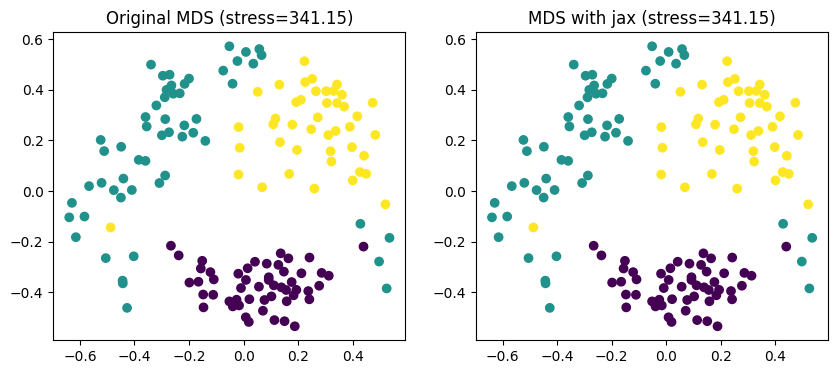
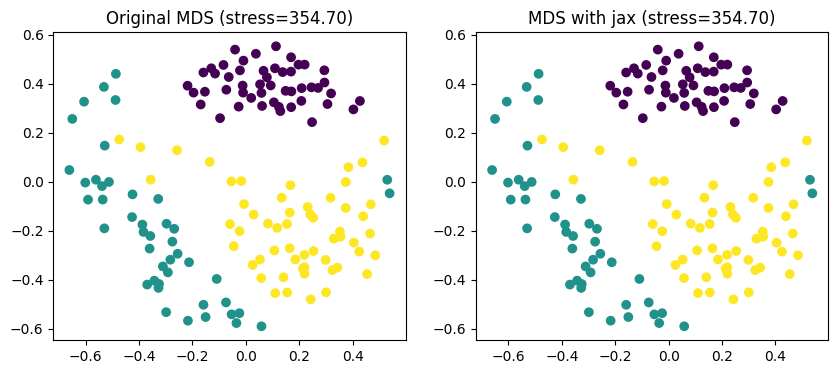
WIP debugging the viz flipping around -- see Zdebug -- when converged

diff --git a/pmds/lv_pmds.py b/pmds/lv_pmds.py
@@ -78,13 +78,13 @@ def lv_pmds(
     init_mu=None,
     hard_fix=False,
     method="LV",
-    beta=500.0,
+    beta=10.0,
     gamma_shape=1.0,
     gamma_rate=1.0,
 ):
     assert n_components in [2, 4]
 
-    # init mu and sigma square. Transform unconstrained sigma square `ss_unc` to `ss`.
+    # init `mu` and `tau`. Transform unconstrained tau `tau_unc` to  constrained`tau`.
     # https://github.com/tensorflow/probability/issues/703
     key_m, key_tau = jax.random.split(jax.random.PRNGKey(random_state))
     # tau = jax.abs(jax.random.normal(key_tau, (n_samples,)))
@@ -93,7 +93,7 @@ def lv_pmds(
         mu = jnp.array(init_mu)
     else:
         mu = jax.random.normal(key_m, (n_samples, n_components))
-    mu0 = jnp.array([0.0, 0.0])
+    mu0 = jnp.array([1.0, -1.0])
 
     # fixed points
     if fixed_points:
@@ -120,8 +120,7 @@ def lv_pmds(
         batch = random.sample(dists_with_indices, k=len(p_dists))
         # unpatch pairwise distances and indices of points in each pair
         dists, pair_indices = list(zip(*batch))
-        i0, i1 = list(zip(*pair_indices))
-        i0, i1 = list(i0), list(i1)
+        i0, i1 = map(list, zip(*pair_indices))
 
         # we work with constrainted `tau` (tau > 0)
         tau = EPSILON + jax.nn.softplus(SCALE * tau_unc)
@@ -188,7 +187,7 @@ def lv_pmds(
         # mlflow.log_metric("loss", loss)
         # mlflow.log_metric("stress", mds_stress)
         print(
-            f"[DEBUG] epoch {epoch}, loss: {-loss:,.0f}, stress: {mds_stress:,.2f}"
+            f"[DEBUG] epoch {epoch}, loss: {-loss:,.0f}, stress: {mds_stress:,.2f}, tau: {float(jnp.mean(tau)):.1f}"
             # f" mu in [{float(jnp.min(mu)):.3f}, {float(jnp.max(mu)):.3f}], "
             # f" ss_unc in [{float(jnp.min(ss_unc)):.3f}, {float(jnp.max(ss_unc)):.3f}]"
         )

diff --git a/pmds/plot.py b/pmds/plot.py
@@ -39,7 +39,7 @@ def plot_debug_Z(all_Z, labels=None, out_name="Zdebug.png", magnitude_factor=1.0
         ax.scatter(*Z0["Z"].T, c=labels, alpha=0.5)
 
         # plot arrow for the direction of movement
-        arrowprops = (dict(arrowstyle="->", alpha=0.1),)
+        arrowprops = dict(arrowstyle="->", alpha=0.1)
         for [x0, y0], [x1, y1] in zip(Z0["Z"], Z1["Z"]):
             ax.annotate("", xy=(x1, y1), xytext=(x0, y0), arrowprops=arrowprops)
 

diff --git a/pmds/config.py b/pmds/config.py
@@ -305,7 +305,7 @@ pre_config = {
             n_components=2,
             batch_size=0,
             epochs=25,
-            learning_rate=1e-3,
+            learning_rate=3e-3,
             random_state=42,
             std=False,  # digits already in [0, 1]
             pca=None,
